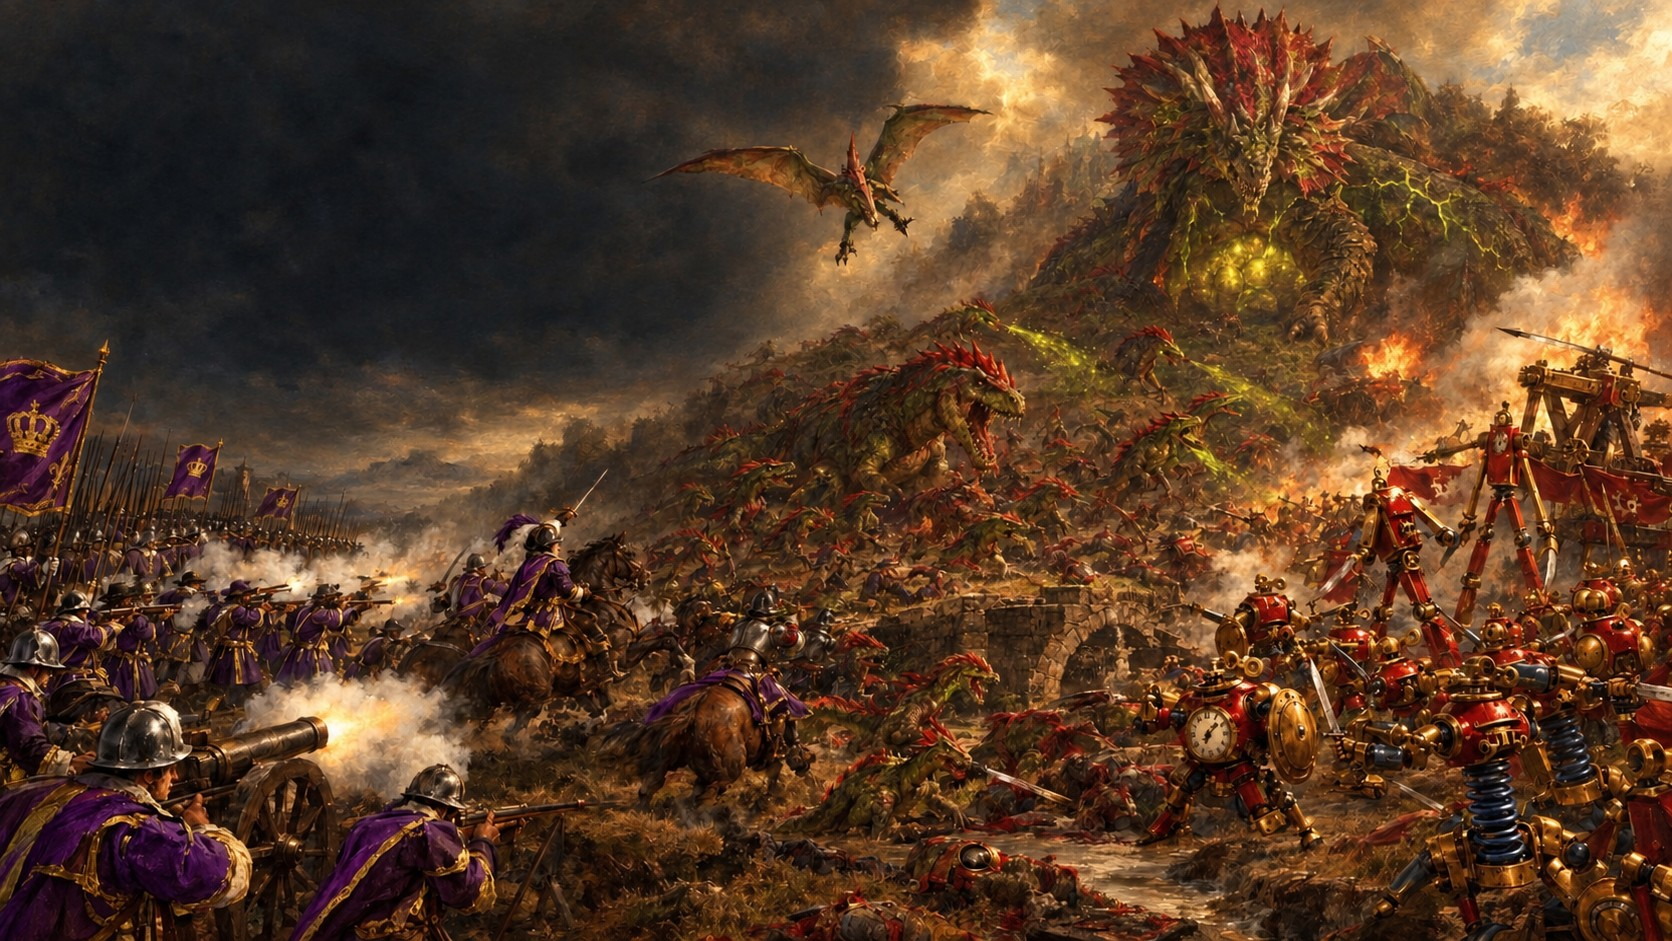
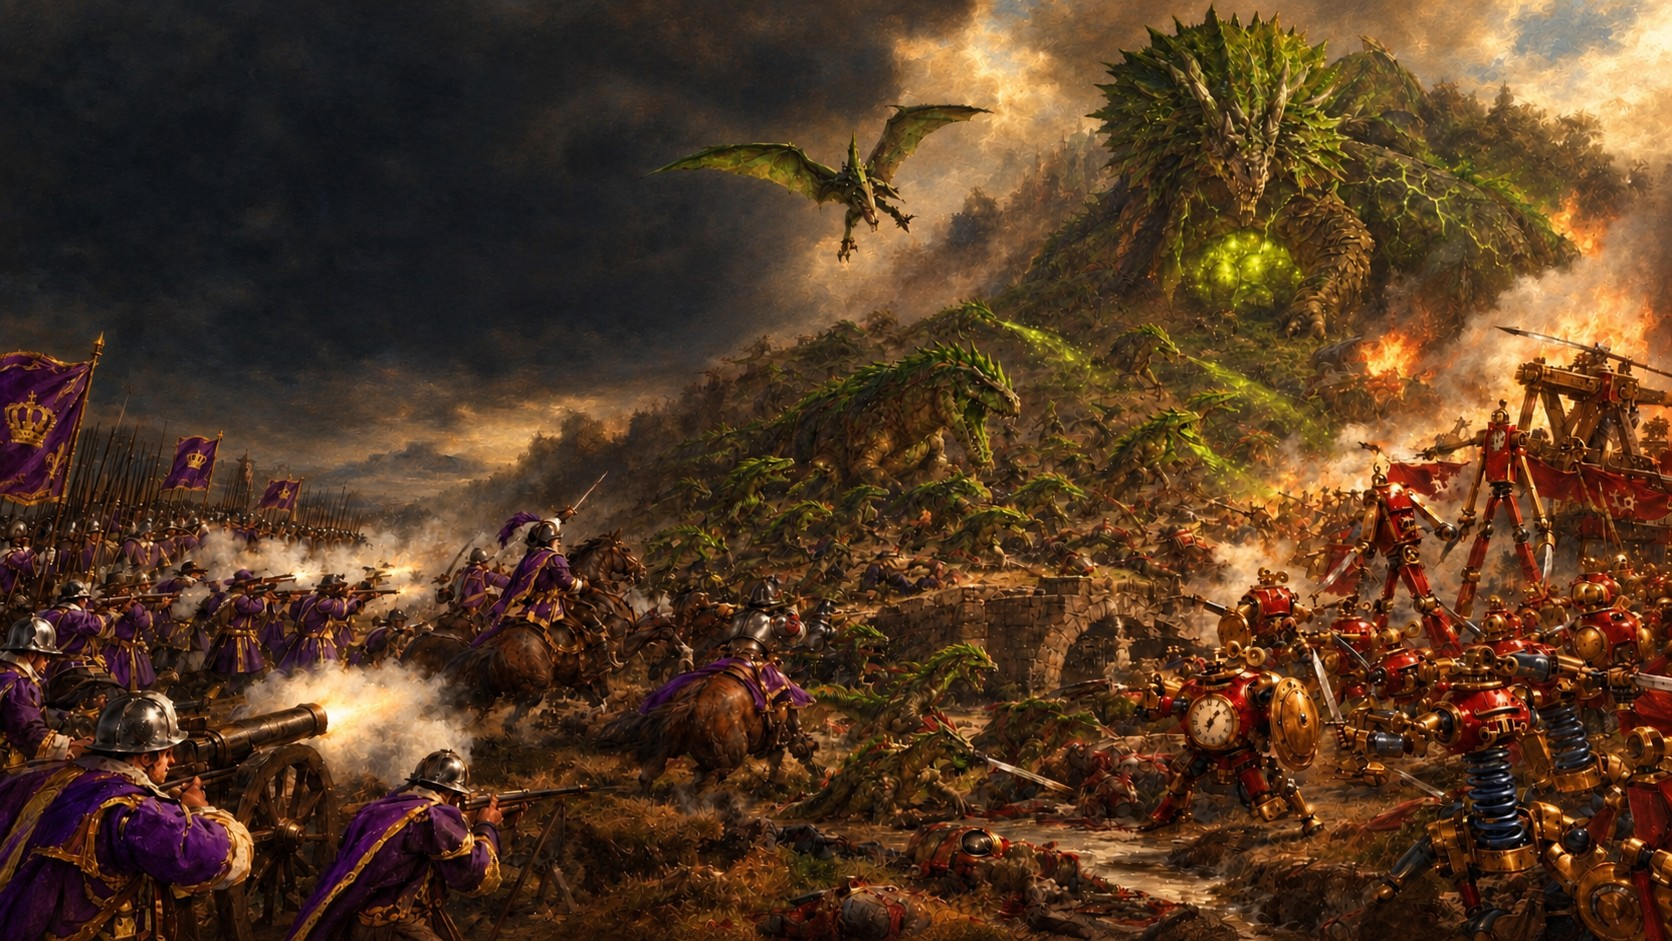
0.29.13: the main menu painting in the three faction colours
Claude-Session: https://claude.ai/code/session_01NtmEZhP1uA8k4DLQ7BYfMz

diff --git a/README.md b/README.md
@@ -2,7 +2,7 @@
 
 *(a working title: the game was called Holdfast until October 2026, but that name belongs to another game; the web address, the app file and the repository keep the old name for now so links and installs keep working)*
 
-**Play in your browser (version 0.29.12): https://holdfastrts.github.io/Holdfast/**
+**Play in your browser (version 0.29.13): https://holdfastrts.github.io/Holdfast/**
 
 **Windows program: https://holdfastrts.github.io/Holdfast/Holdfast_windows.zip** (rebuilt on every push; unzip it and run Holdfast.exe; if Windows warns "Windows protected your PC", click More info, then Run anyway)
 
